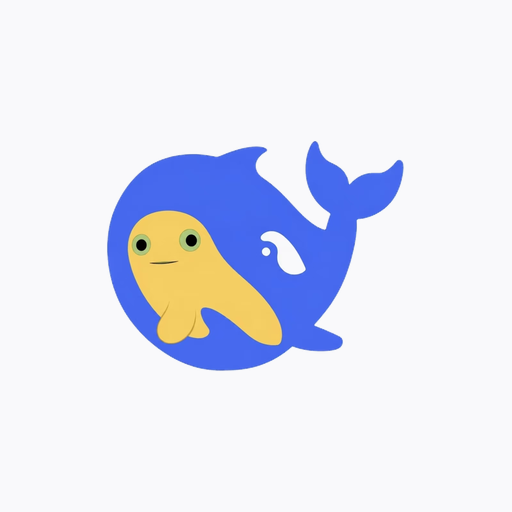
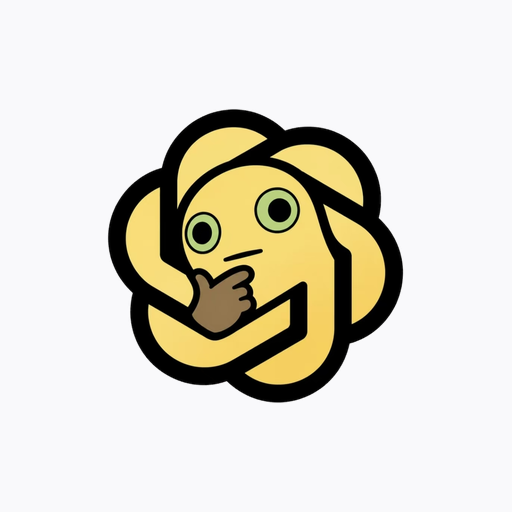
v1.0.1：修状态栏遮挡 + 分类/餐次拖拽排序 + 更换图标
- MainActivity 应用 WindowInsets，内容避开状态栏/导航栏（一次修复所有页面）
- 分类与餐次支持拖拽排序（长按 ⋮⋮ 把手），记账九宫格与筛选按钮跟随顺序
- 分类/餐次数据增加 order 字段，旧数据自动迁移
- 图标更换为新形象，全套 PWA/Android 资源重新生成（tools/make-icons.py）
- assets-src 原图不入公开仓库

Changed region(s): [[0.1875, 0.1875, 0.8125, 0.8125]]

diff --git a/www/index.html b/www/index.html
@@ -252,6 +252,8 @@ html[data-theme="dark"] .toast{background:rgba(238,241,245,.95);color:#14171b}
 .palette button.on{box-shadow:0 0 0 2.5px var(--card),0 0 0 4.5px var(--ink)}
 
 .cat-item{display:flex;align-items:center;gap:11px;padding:9px 10px;border-radius:11px;width:100%;text-align:left}
+.grip{flex:0 0 auto;color:var(--faint);padding:8px 6px 8px 0;margin-left:-6px;font-size:14px;letter-spacing:2px;touch-action:none;cursor:grab;user-select:none;-webkit-user-select:none}
+.cat-item.dragging{position:relative;z-index:5;background:var(--card);box-shadow:0 8px 22px rgba(0,0,0,.16);opacity:.97}
 .cat-item:active{background:var(--soft)}
 .cat-item .cic{width:38px;height:38px;border-radius:11px;display:flex;align-items:center;justify-content:center;
   font-size:19px;flex:0 0 auto}
@@ -1421,6 +1423,7 @@ function renderCatManage(){
   $('catManageList').innerHTML = CATS.map(c => {
     const n = state.records.filter(r => r.cat === c.id).length;
     return '<button class="cat-item" data-cedit="' + c.id + '">' +
+      '<span class="grip" data-grip aria-label="长按拖动排序">⋮⋮</span>' +
       '<span class="cic" style="background:' + c.color + '22">' + c.icon + '</span>' +
       '<span class="cinfo"><span class="cname">' + esc(c.name) +
         (c.heavy ? ' <span class="tag">高油糖</span>' : '') +
@@ -1430,6 +1433,10 @@ function renderCatManage(){
 }
 async function reloadCats(){
   CATS = await DB.allCats();
+  if (CATS.some(c => typeof c.order !== 'number')){          // 旧数据迁移：补 order 字段
+    await Promise.all(CATS.map((c, i) => (c.order = i, DB.putCat(c))));
+  }
+  CATS.sort((a, b) => (a.order || 0) - (b.order || 0));
   CAT_MAP = Object.fromEntries(CATS.map(c => [c.id, c]));
   if (state.listCats.length) state.listCats = state.listCats.filter(id => CAT_MAP[id]);
   renderCatPicker();
@@ -1451,13 +1458,101 @@ function renderMealManage(){
   $('mealManageList').innerHTML = MEALS.length ? MEALS.map(m => {
     const n = state.records.filter(r => r.meal === m.id).length;
     return '<button class="cat-item" data-medit="' + m.id + '">' +
+      '<span class="grip" data-grip aria-label="长按拖动排序">⋮⋮</span>' +
       '<span class="cinfo"><span class="cname">' + esc(m.name) + '</span>' +
       '<span class="cmeta">' + (n ? n + ' 笔记录' : '还没用过') + '</span></span>' +
       '<span class="go">编辑</span></button>';
   }).join('') : '<div class="note" style="padding:6px 2px">还没有餐次</div>';
 }
+
+/* ---------- 拖拽排序（分类 & 餐次共用） ---------- */
+let suppressClick = false;
+document.addEventListener('click', e => {
+  if (suppressClick){ e.stopPropagation(); e.preventDefault(); suppressClick = false; }
+}, true);
+
+function enableDragSort(container, onDone){
+  let drag = null;
+  container.addEventListener('pointerdown', e => {
+    const grip = e.target.closest('[data-grip]');
+    if (!grip) return;
+    const row = grip.closest('.cat-item');
+    if (!row) return;
+    e.preventDefault();
+    drag = {row, grab: e.clientY - row.getBoundingClientRect().top, startY: e.clientY, T: 0, moved: false};
+    try{ grip.setPointerCapture(e.pointerId); }catch(err){}
+  });
+  container.addEventListener('pointermove', e => {
+    if (!drag) return;
+    if (!drag.moved){
+      if (Math.abs(e.clientY - drag.startY) < 5) return;
+      drag.moved = true;
+      drag.row.classList.add('dragging');
+    }
+    const row = drag.row;
+    const rect = row.getBoundingClientRect();
+    drag.T = (e.clientY - drag.grab) - (rect.top - drag.T);   // 让行跟着手指走
+    row.style.transform = 'translateY(' + drag.T.toFixed(1) + 'px)';
+    const centerY = e.clientY - drag.grab + rect.height / 2;
+    for (const o of container.querySelectorAll('.cat-item')){  // 越过邻行中点就交换位置
+      if (o === row) continue;
+      const or = o.getBoundingClientRect();
+      const mid = or.top + or.height / 2;
+      const pos = row.compareDocumentPosition(o);
+      if (centerY > mid && (pos & Node.DOCUMENT_POSITION_FOLLOWING)){
+        container.insertBefore(row, o.nextSibling); break;
+      }
+      if (centerY < mid && (pos & Node.DOCUMENT_POSITION_PRECEDING)){
+        container.insertBefore(row, o); break;
+      }
+    }
+  });
+  const finish = () => {
+    if (!drag) return;
+    drag.row.classList.remove('dragging');
+    drag.row.style.transform = '';
+    const moved = drag.moved;
+    drag = null;
+    if (moved){
+      suppressClick = true;
+      setTimeout(() => { suppressClick = false; }, 350);
+      onDone([...container.querySelectorAll('.cat-item')]
+        .map(x => x.dataset.cedit || x.dataset.medit).filter(Boolean));
+    }
+  };
+  container.addEventListener('pointerup', finish);
+  container.addEventListener('pointercancel', finish);
+}
+async function persistCatOrder(ids){
+  if (ids.length !== CATS.length) return;
+  const map = Object.fromEntries(CATS.map(c => [c.id, c]));
+  CATS = ids.map(id => map[id]).filter(Boolean);
+  CATS.forEach((c, i) => c.order = i);
+  await Promise.all(CATS.map(c => DB.putCat(c)));
+  renderCatPicker();
+  renderCatManage();
+  render();
+  toast('分类顺序已保存');
+}
+async function persistMealOrder(ids){
+  if (ids.length !== MEALS.length) return;
+  const map = Object.fromEntries(MEALS.map(m => [m.id, m]));
+  MEALS = ids.map(id => map[id]).filter(Boolean);
+  MEALS.forEach((m, i) => m.order = i);
+  await Promise.all(MEALS.map(m => DB.putMeal(m)));
+  renderMealChips();
+  renderFilterMeals();
+  renderMealManage();
+  toast('餐次顺序已保存');
+}
+enableDragSort($('catManageList'), persistCatOrder);
+enableDragSort($('mealManageList'), persistMealOrder);
 async function reloadMeals(){
   MEALS = await DB.allMeals();
+  if (MEALS.some(m => typeof m.order !== 'number')){
+    await Promise.all(MEALS.map((m, i) => (m.order = i, DB.putMeal(m))));
+  }
+  MEALS.sort((a, b) => (a.order || 0) - (b.order || 0));
   MEAL_MAP = Object.fromEntries(MEALS.map(m => [m.id, m]));
   if (state.meal && !MEAL_MAP[state.meal]) state.meal = null;
   renderMealChips();
@@ -1473,7 +1568,8 @@ async function saveCat(){
     if (MEALS.some(m => m.name === name && m.id !== state.catEditing)){ toast('已经有叫「' + name + '」的餐次了'); return; }
     const id = state.catEditing || ('m' + uid());
     const wasNew = !state.catEditing;
-    await DB.putMeal({id, name});
+    const mOrder = state.catEditing ? (MEAL_MAP[id] ? MEAL_MAP[id].order : MEALS.length) : MEALS.length;
+    await DB.putMeal({id, name, order: mOrder});
     state.catEditing = null;
     await reloadMeals();
     if (state.catFromPicker) state.meal = id;
@@ -1488,7 +1584,8 @@ async function saveCat(){
   if (CATS.some(c => c.name === name && c.id !== state.catEditing)){ toast('已经有叫「' + name + '」的分类了'); return; }
   const id = state.catEditing || ('c' + uid());
   const wasNew = !state.catEditing;
-  await DB.putCat({id, name, icon: [...icon][0] || '\u{1F374}', color: state.catColor, heavy: state.catHeavy});
+  const order = state.catEditing ? (CAT_MAP[id] ? CAT_MAP[id].order : CATS.length) : CATS.length;
+  await DB.putCat({id, name, icon: [...icon][0] || '\u{1F374}', color: state.catColor, heavy: state.catHeavy, order});
   state.catEditing = null;
   await reloadCats();
   if (state.catFromPicker) selectCat(id);
@@ -1923,7 +2020,8 @@ $('fileImport').addEventListener('change', async e => {
           id: String(c.id), name: String(c.name).slice(0, 10),
           icon: typeof c.icon === 'string' && c.icon ? [...c.icon][0] : '\u{1F374}',
           color: typeof c.color === 'string' ? c.color : '#888780',
-          heavy: !!c.heavy
+          heavy: !!c.heavy,
+          order: typeof c.order === 'number' ? c.order : undefined
         });
       }
       await reloadCats();
@@ -1931,7 +2029,8 @@ $('fileImport').addEventListener('change', async e => {
     if (Array.isArray(data.meals)){
       for (const m of data.meals){
         if (!m || !m.id || !m.name) continue;
-        await DB.putMeal({id: String(m.id), name: String(m.name).slice(0, 10)});
+        await DB.putMeal({id: String(m.id), name: String(m.name).slice(0, 10),
+          order: typeof m.order === 'number' ? m.order : undefined});
       }
       await reloadMeals();
     }
@@ -1972,14 +2071,14 @@ $('btnClear').addEventListener('click', async () => {
     state.records = await DB.all();
     let cats = await DB.allCats();
     if (!cats.length){
-      for (const c of SEED_CATS) await DB.putCat(c);
+      for (const [i, c] of SEED_CATS.entries()) await DB.putCat({...c, order: i});
       cats = await DB.allCats();
     }
     CATS = cats;
     CAT_MAP = Object.fromEntries(CATS.map(c => [c.id, c]));
     let meals = await DB.allMeals();
     if (!meals.length){
-      for (const m of SEED_MEALS) await DB.putMeal(m);
+      for (const [i, m] of SEED_MEALS.entries()) await DB.putMeal({...m, order: i});
       meals = await DB.allMeals();
     }
     MEALS = meals;

diff --git a/www/sw.js b/www/sw.js
@@ -1,4 +1,4 @@
-const CACHE = 'mealmeter-v19';
+const CACHE = 'mealmeter-v20';
 const ASSETS = [
   './', './index.html', './manifest.json',
   './icon-192.png', './icon-512.png', './icon-maskable-512.png', './apple-touch-icon.png'

diff --git a/android/app/src/main/java/com/mealmeter/app/MainActivity.java b/android/app/src/main/java/com/mealmeter/app/MainActivity.java
@@ -1,5 +1,25 @@
 package com.mealmeter.app;
 
+import android.os.Bundle;
+import androidx.core.graphics.Insets;
+import androidx.core.view.ViewCompat;
+import androidx.core.view.WindowInsetsCompat;
 import com.getcapacitor.BridgeActivity;
 
-public class MainActivity extends BridgeActivity {}
+public class MainActivity extends BridgeActivity {
+    @Override
+    public void onCreate(Bundle savedInstanceState) {
+        super.onCreate(savedInstanceState);
+        // Android 15+ 强制 edge-to-edge，WebView 会画到状态栏/导航栏底下。
+        // 把系统栏的高度转成 content 的 padding，让整个网页内容整体下移，
+        // 所有页面（结构/明细/设置/各弹窗）一次修正。
+        ViewCompat.setOnApplyWindowInsetsListener(findViewById(android.R.id.content), (v, windowInsets) -> {
+            Insets bars = windowInsets.getInsets(
+                    WindowInsetsCompat.Type.statusBars()
+                            | WindowInsetsCompat.Type.displayCutout()
+                            | WindowInsetsCompat.Type.navigationBars());
+            v.setPadding(0, bars.top, 0, bars.bottom);
+            return windowInsets;
+        });
+    }
+}
